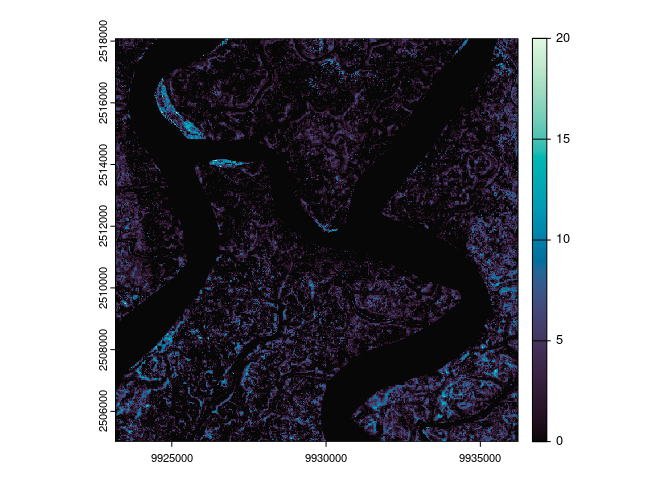
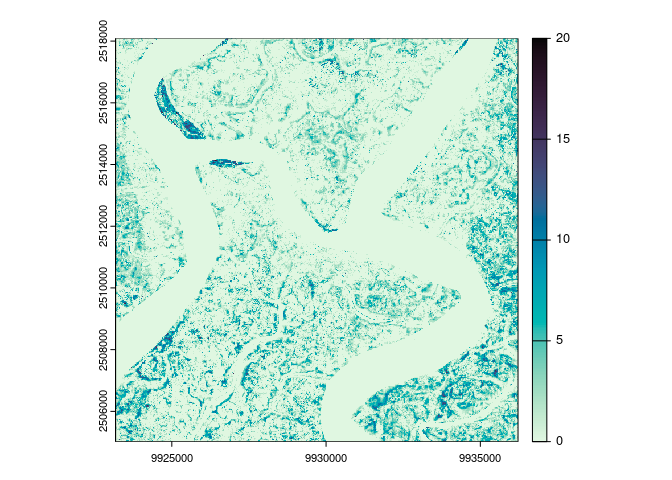
update readme and DESCRIPTION

diff --git a/README.md b/README.md
@@ -12,7 +12,7 @@ experimental](https://img.shields.io/badge/lifecycle-experimental-orange.svg)](h
 
 The goal of chmloader is to download the Canopy Height Model (CHM) data
 from this recent work by [Tolan et
-al. (2023)](https://www.sciencedirect.com/science/article/pii/S003442572300439X).
+al. (2024)](https://www.sciencedirect.com/science/article/pii/S003442572300439X).
 A high level summary of this work can be found
 [here](https://sustainability.fb.com/blog/2024/04/22/using-artificial-intelligence-to-map-the-earths-forests/).
 The data is downloaded from aws s3 storage - further details on the
@@ -45,9 +45,7 @@ sundarbans_chm <- download_chm(
 )
 
 sdb_chm <- terra::rast(sundarbans_chm)
-terra::plot(sdb_chm,
-  col = hcl.colors(256, "mako")
-)
+terra::plot(sdb_chm, col = hcl.colors(256, "mako", rev = TRUE))
 ```
 
 <img src="man/figures/README-example-1.png" width="100%" />
